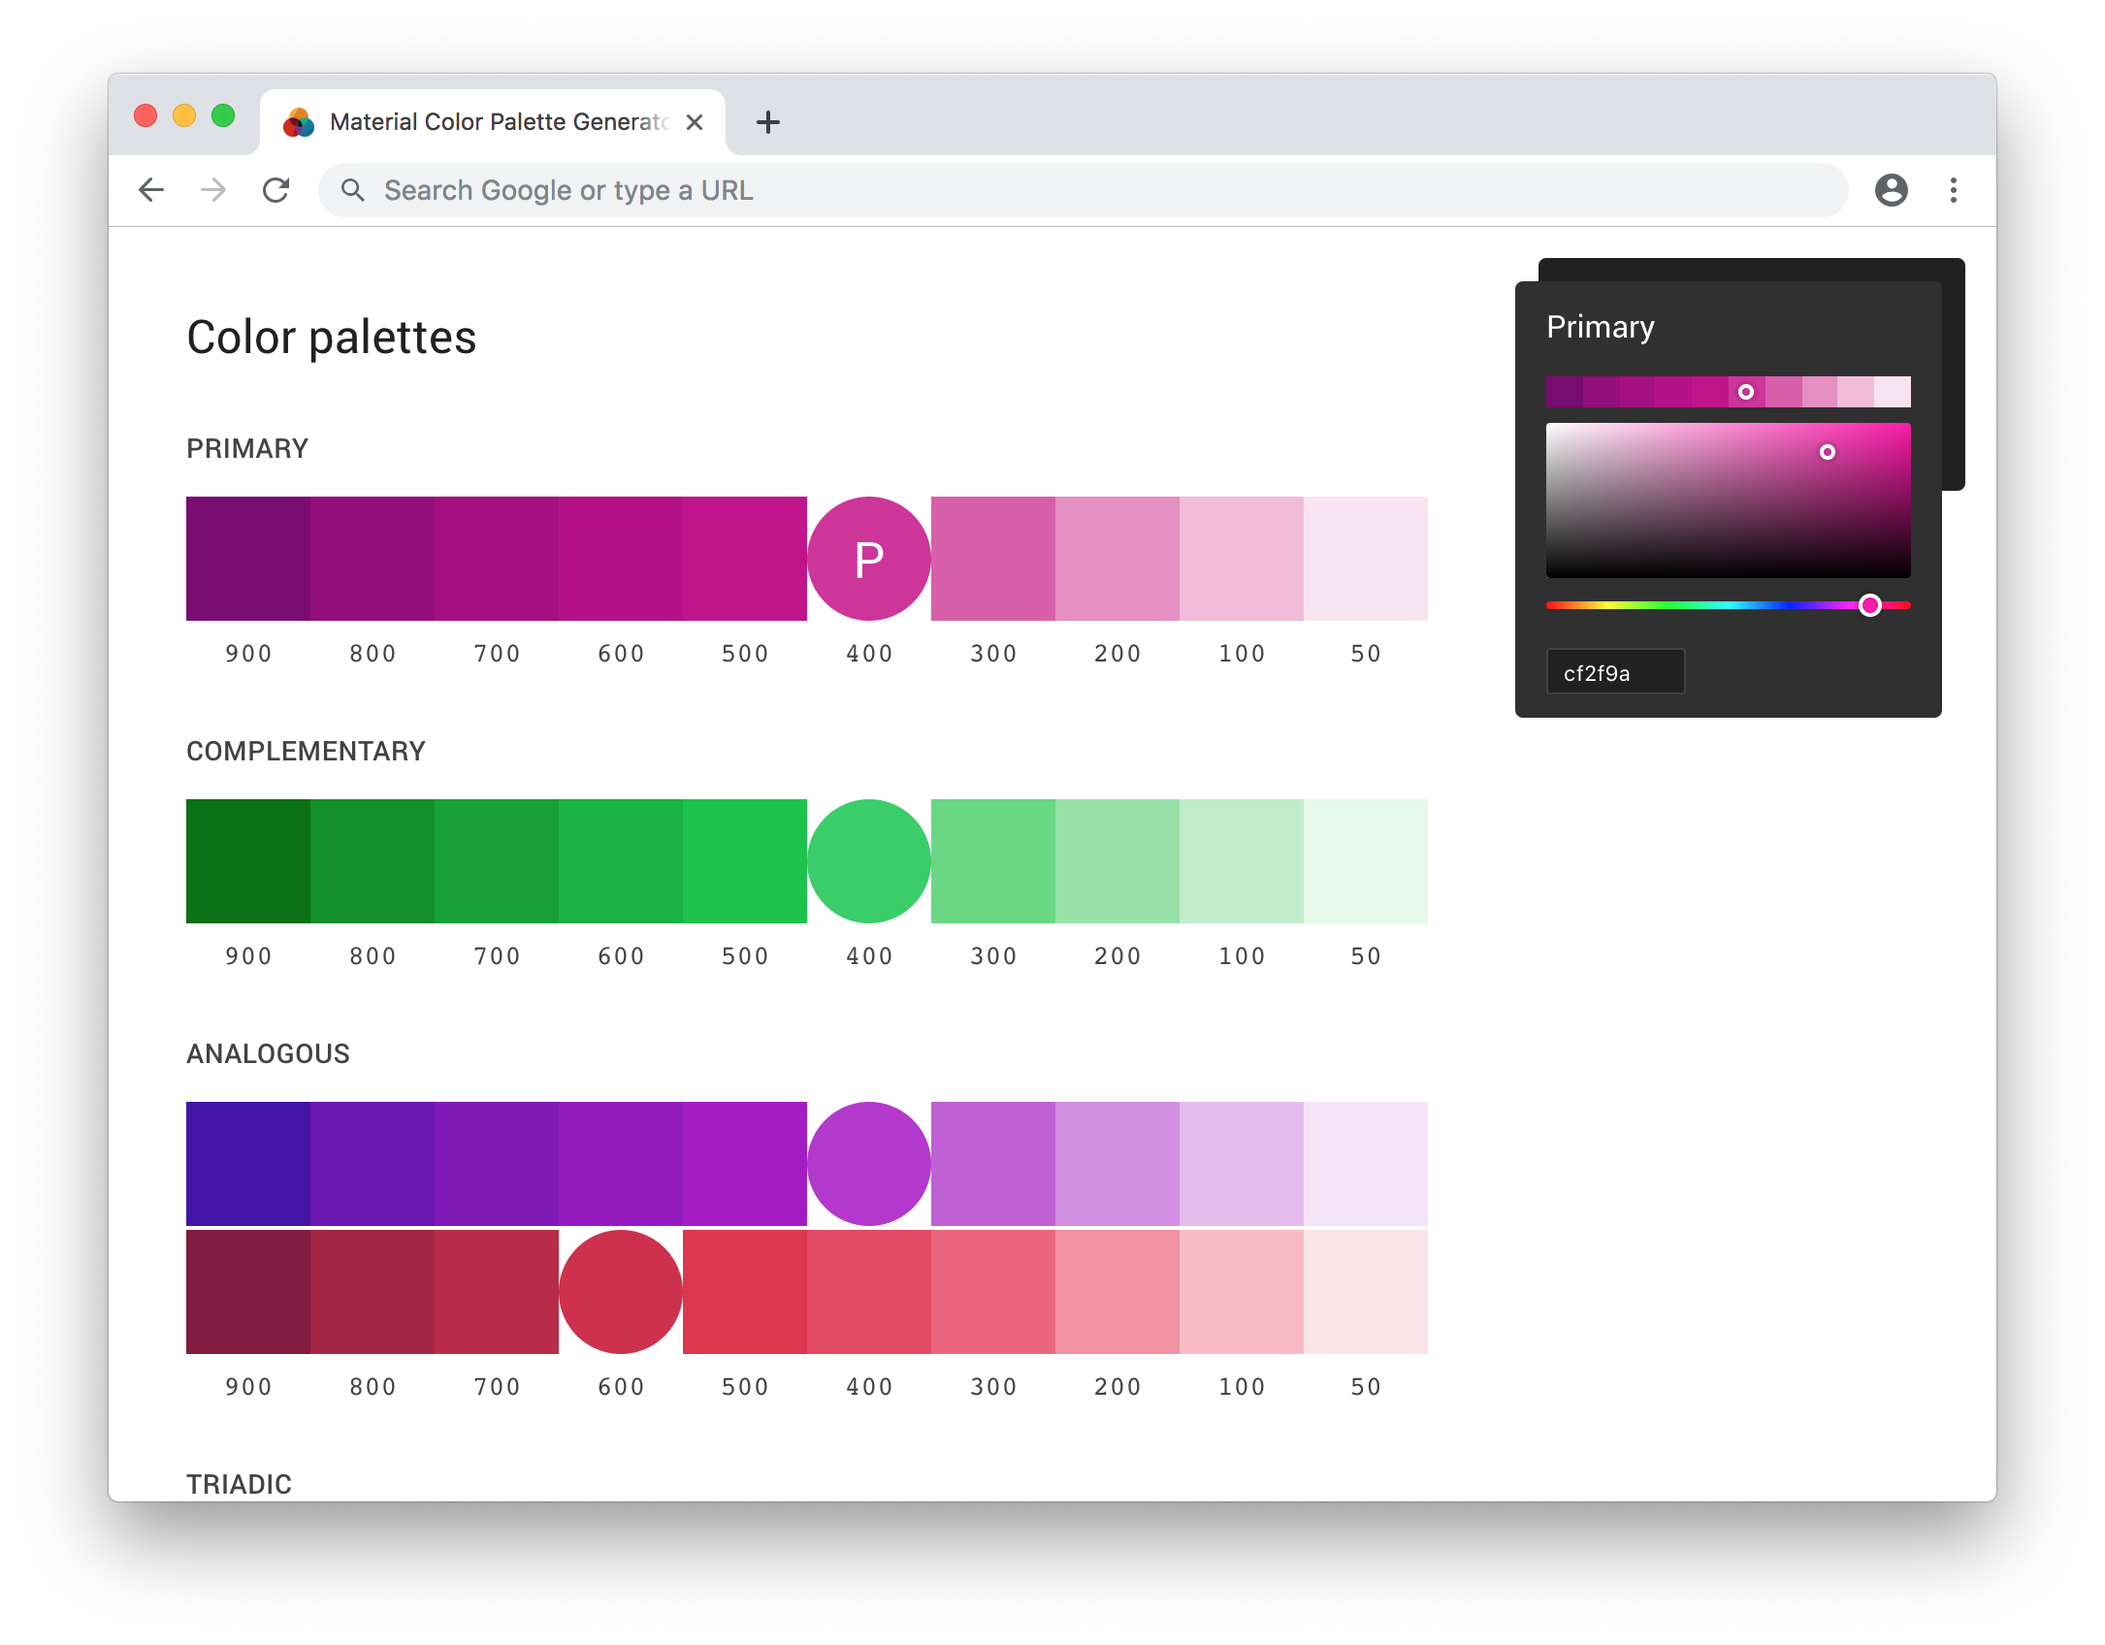
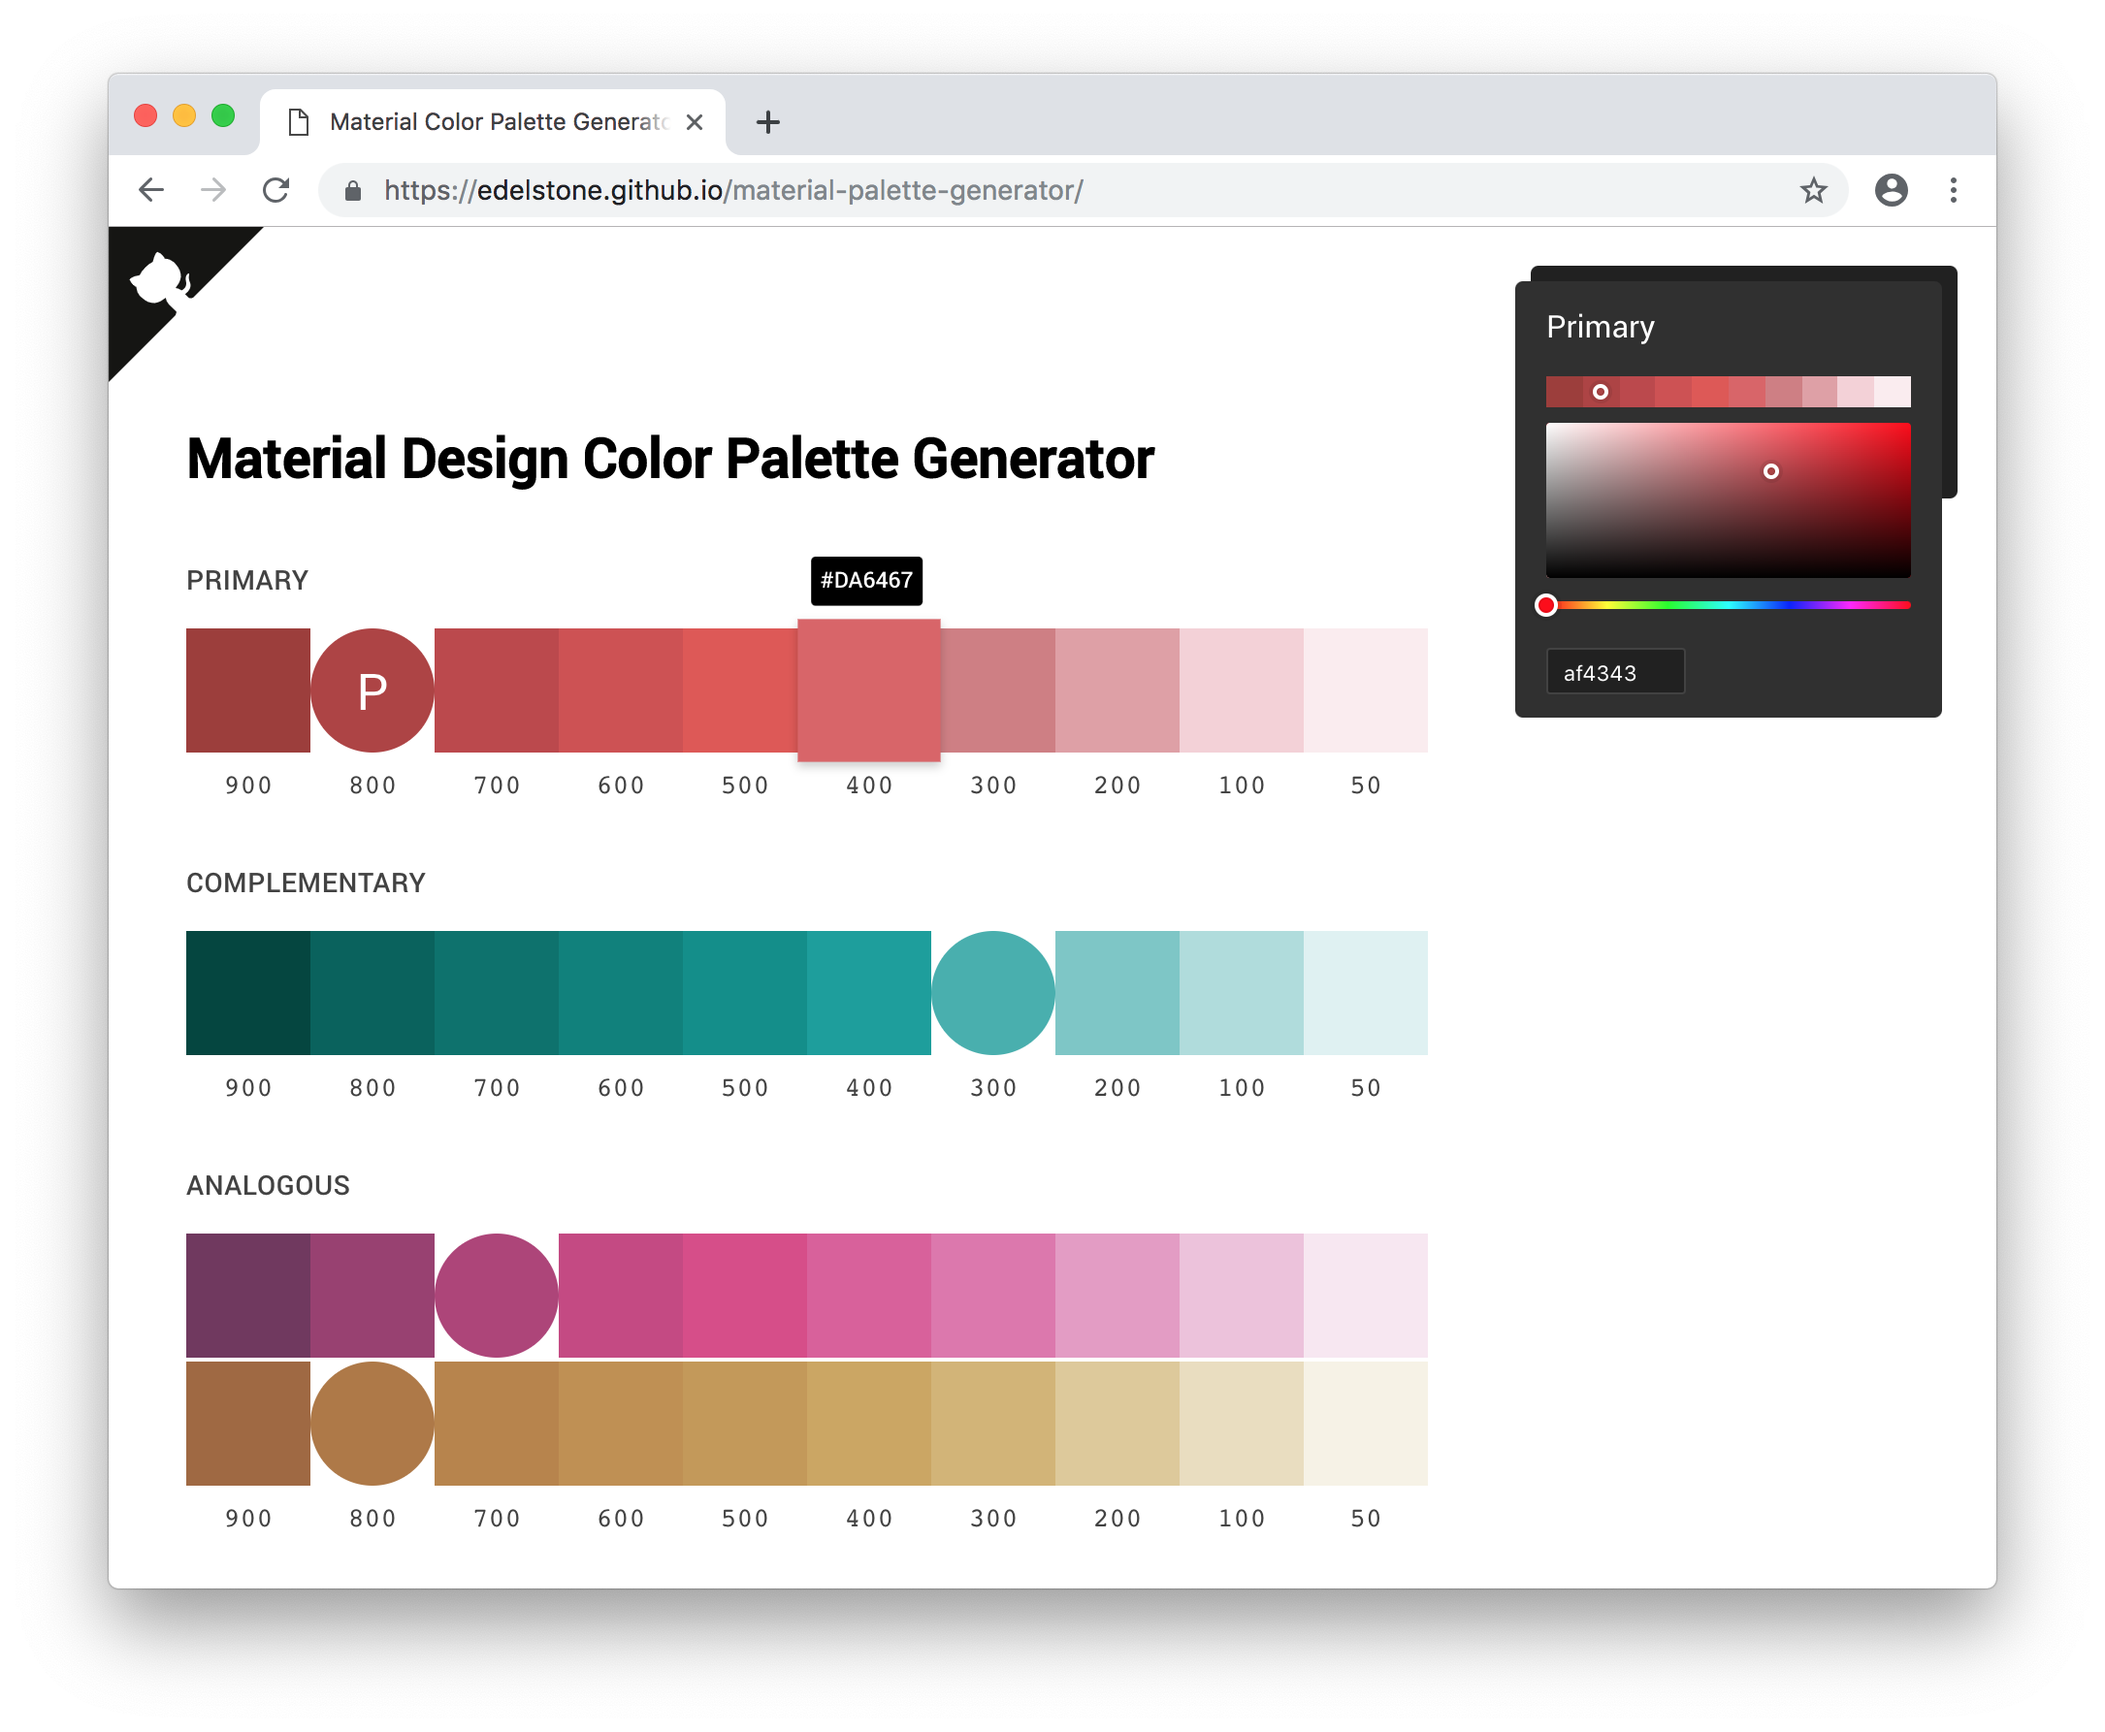
updates screenshot

diff --git a/index.html b/index.html
@@ -4,7 +4,8 @@
   <meta charset="UTF-8">
   <meta name="viewport" content="width=device-width, initial-scale=1.0">
   <meta http-equiv="X-UA-Compatible" content="ie=edge">
-  <title>Material Color Palette Generator</title>
+  <meta name="description" content="Make perfect Material Design color palettes from any hex color.">
+  <title>Material Design Color Palette Generator</title>
   <link rel="apple-touch-icon" sizes="180x180" href="/apple-touch-icon.png">
   <link rel="icon" type="image/png" sizes="32x32" href="/favicon-32x32.png">
   <link rel="icon" type="image/png" sizes="16x16" href="/favicon-16x16.png">
@@ -18,7 +19,7 @@
 </head>
 
 <body>
-  <a href="https://github.com/edelstone/material-palette-generator" class="github-corner" aria-label="View source on GitHub"><svg width="80" height="80" viewBox="0 0 250 250" style="fill:#151513; color:#fff; position: absolute; top: 0; border: 0; left: 0; transform: scale(-1, 1);" aria-hidden="true"><path d="M0,0 L115,115 L130,115 L142,142 L250,250 L250,0 Z"></path><path d="M128.3,109.0 C113.8,99.7 119.0,89.6 119.0,89.6 C122.0,82.7 120.5,78.6 120.5,78.6 C119.2,72.0 123.4,76.3 123.4,76.3 C127.3,80.9 125.5,87.3 125.5,87.3 C122.9,97.6 130.6,101.9 134.4,103.2" fill="currentColor" style="transform-origin: 130px 106px;" class="octo-arm"></path><path d="M115.0,115.0 C114.9,115.1 118.7,116.5 119.8,115.4 L133.7,101.6 C136.9,99.2 139.9,98.4 142.2,98.6 C133.8,88.0 127.5,74.4 143.8,58.0 C148.5,53.4 154.0,51.2 159.7,51.0 C160.3,49.4 163.2,43.6 171.4,40.1 C171.4,40.1 176.1,42.5 178.8,56.2 C183.1,58.6 187.2,61.8 190.9,65.4 C194.5,69.0 197.7,73.2 200.1,77.6 C213.8,80.2 216.3,84.9 216.3,84.9 C212.7,93.1 206.9,96.0 205.4,96.6 C205.1,102.4 203.0,107.8 198.3,112.5 C181.9,128.9 168.3,122.5 157.7,114.1 C157.9,116.9 156.7,120.9 152.7,124.9 L141.0,136.5 C139.8,137.7 141.6,141.9 141.8,141.8 Z" fill="currentColor" class="octo-body"></path></svg><style>.github-corner:hover .octo-arm{animation:octocat-wave 560ms ease-in-out}@keyframes octocat-wave{0%,100%{transform:rotate(0)}20%,60%{transform:rotate(-25deg)}40%,80%{transform:rotate(10deg)}}@media (max-width:500px){.github-corner:hover .octo-arm{animation:none}.github-corner .octo-arm{animation:octocat-wave 560ms ease-in-out}}</style></a>
+  <a href="https://github.com/edelstone/material-palette-generator" class="github-corner" aria-label="View source on GitHub"><svg width="80" height="80" viewBox="0 0 250 250" style="fill:#212121; color:#fff; position: absolute; top: 0; border: 0; left: 0; transform: scale(-1, 1);" aria-hidden="true"><path d="M0,0 L115,115 L130,115 L142,142 L250,250 L250,0 Z"></path><path d="M128.3,109.0 C113.8,99.7 119.0,89.6 119.0,89.6 C122.0,82.7 120.5,78.6 120.5,78.6 C119.2,72.0 123.4,76.3 123.4,76.3 C127.3,80.9 125.5,87.3 125.5,87.3 C122.9,97.6 130.6,101.9 134.4,103.2" fill="currentColor" style="transform-origin: 130px 106px;" class="octo-arm"></path><path d="M115.0,115.0 C114.9,115.1 118.7,116.5 119.8,115.4 L133.7,101.6 C136.9,99.2 139.9,98.4 142.2,98.6 C133.8,88.0 127.5,74.4 143.8,58.0 C148.5,53.4 154.0,51.2 159.7,51.0 C160.3,49.4 163.2,43.6 171.4,40.1 C171.4,40.1 176.1,42.5 178.8,56.2 C183.1,58.6 187.2,61.8 190.9,65.4 C194.5,69.0 197.7,73.2 200.1,77.6 C213.8,80.2 216.3,84.9 216.3,84.9 C212.7,93.1 206.9,96.0 205.4,96.6 C205.1,102.4 203.0,107.8 198.3,112.5 C181.9,128.9 168.3,122.5 157.7,114.1 C157.9,116.9 156.7,120.9 152.7,124.9 L141.0,136.5 C139.8,137.7 141.6,141.9 141.8,141.8 Z" fill="currentColor" class="octo-body"></path></svg><style>.github-corner:hover .octo-arm{animation:octocat-wave 560ms ease-in-out}@keyframes octocat-wave{0%,100%{transform:rotate(0)}20%,60%{transform:rotate(-25deg)}40%,80%{transform:rotate(10deg)}}@media (max-width:500px){.github-corner:hover .octo-arm{animation:none}.github-corner .octo-arm{animation:octocat-wave 560ms ease-in-out}}</style></a>
   <div class="page-title">Material Design Color Palette Generator</div>
   <div id="root-container"></div>
   <script src="js/main.js" defer></script>
